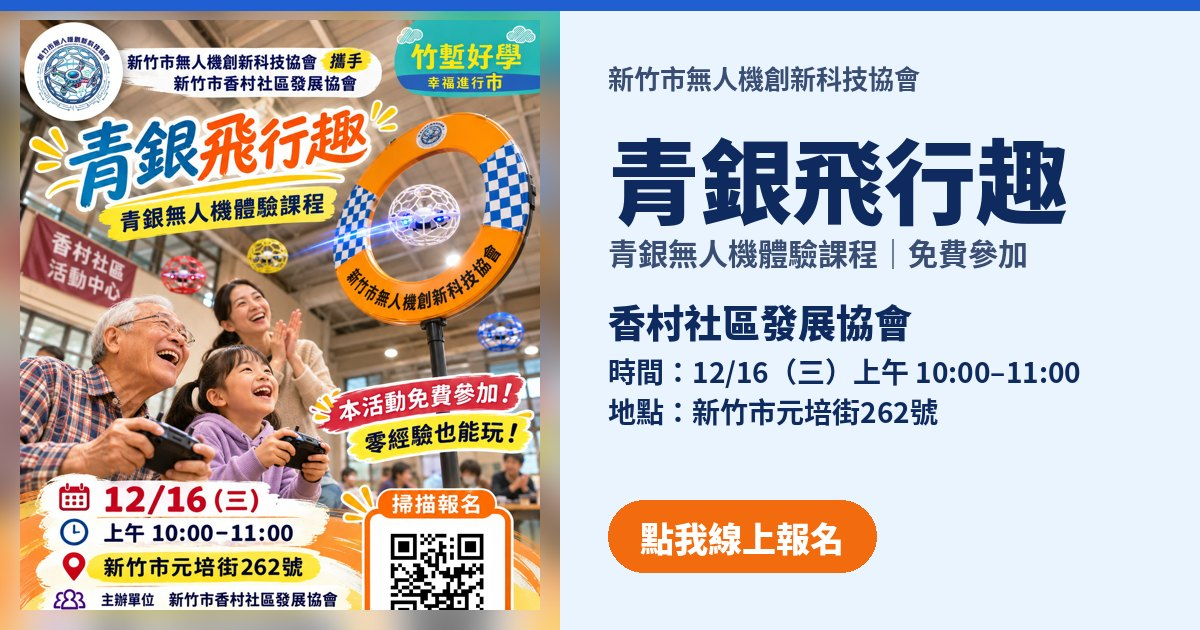
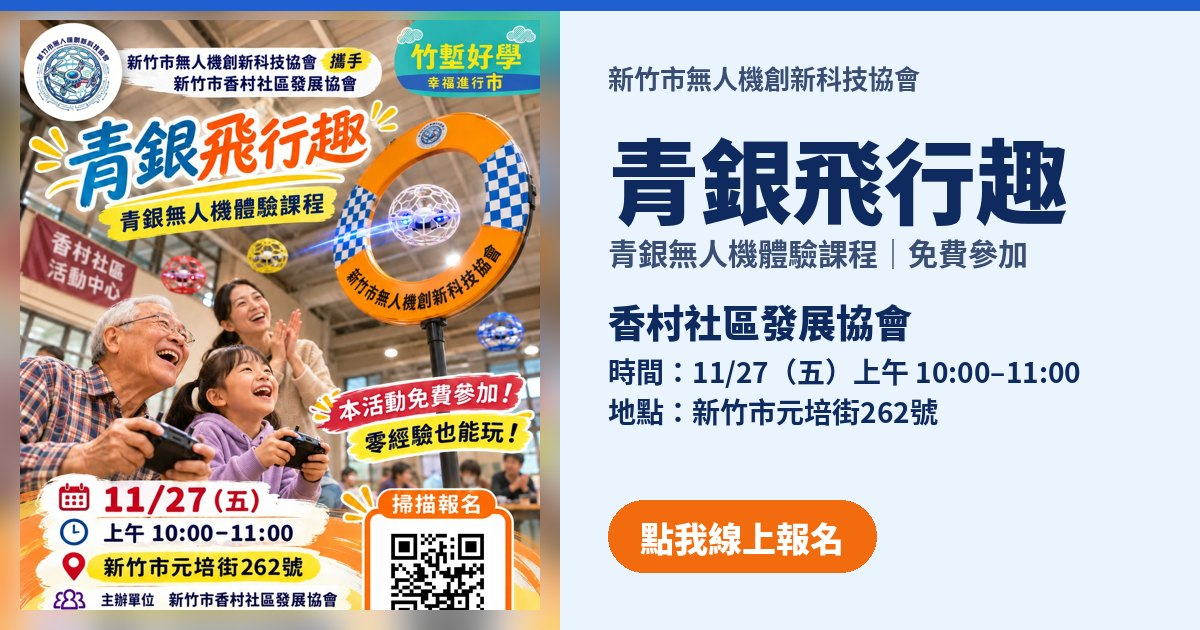
香村 DM 改 11/27（五）：海報、分享縮圖 poster jpg v12、config v35
Claude-Session: https://claude.ai/code/session_01Q3ebcVq132EhKXAYmsQC5S

diff --git a/xiangcun/index.html b/xiangcun/index.html
@@ -4,21 +4,21 @@
 <meta charset="utf-8">
 <meta name="viewport" content="width=device-width,initial-scale=1">
 <title>青銀飛行趣報名｜香村社區發展協會</title>
-<meta name="description" content="青銀無人機體驗課程｜免費參加。時間：12/16（三）上午 10:00–11:00；地點：新竹市元培街262號。線上填姓名、年齡、手機就完成報名。">
+<meta name="description" content="青銀無人機體驗課程｜免費參加。時間：11/27（五）上午 10:00–11:00；地點：新竹市元培街262號。線上填姓名、年齡、手機就完成報名。">
 <link rel="canonical" href="https://greenmail1011.github.io/community-signup/xiangcun/">
 <meta property="og:type" content="website">
 <meta property="og:site_name" content="新竹市無人機創新科技協會">
 <meta property="og:locale" content="zh_TW">
 <meta property="og:url" content="https://greenmail1011.github.io/community-signup/xiangcun/">
 <meta property="og:title" content="青銀飛行趣報名｜香村社區發展協會">
-<meta property="og:description" content="青銀無人機體驗課程｜免費參加。時間：12/16（三）上午 10:00–11:00；地點：新竹市元培街262號。線上填姓名、年齡、手機就完成報名。">
+<meta property="og:description" content="青銀無人機體驗課程｜免費參加。時間：11/27（五）上午 10:00–11:00；地點：新竹市元培街262號。線上填姓名、年齡、手機就完成報名。">
 <meta property="og:image" content="https://greenmail1011.github.io/community-signup/og-xiangcun.jpg">
 <meta property="og:image:width" content="1200">
 <meta property="og:image:height" content="630">
 <meta property="og:image:alt" content="青銀飛行趣報名｜香村社區發展協會">
 <meta name="twitter:card" content="summary_large_image">
 <meta name="twitter:title" content="青銀飛行趣報名｜香村社區發展協會">
-<meta name="twitter:description" content="青銀無人機體驗課程｜免費參加。時間：12/16（三）上午 10:00–11:00；地點：新竹市元培街262號。線上填姓名、年齡、手機就完成報名。">
+<meta name="twitter:description" content="青銀無人機體驗課程｜免費參加。時間：11/27（五）上午 10:00–11:00；地點：新竹市元培街262號。線上填姓名、年齡、手機就完成報名。">
 <meta name="twitter:image" content="https://greenmail1011.github.io/community-signup/og-xiangcun.jpg">
 <script>location.replace("../?c=xiangcun" + location.hash);</script>
 <style>body{margin:0;background:#EAF4FF;color:#0E2A5E;font:20px/1.6 system-ui,"PingFang TC","Microsoft JhengHei",sans-serif;display:grid;place-items:center;min-height:100vh;text-align:center}a{color:#C24F00;font-weight:700}</style>

diff --git a/index.html b/index.html
@@ -26,7 +26,7 @@
 // 有代碼 → 一打開就先下載海報，不等其他東西
 (function(){try{var c=(new URLSearchParams(location.search).get("c")||"").trim().toLowerCase();
 if(!c){location.replace("admin.html");return;}
-if(c){var l=document.createElement("link");l.rel="preload";l.as="image";l.href="poster-"+encodeURIComponent(c)+".jpg?v=11";document.head.appendChild(l);}}catch(e){}})();
+if(c){var l=document.createElement("link");l.rel="preload";l.as="image";l.href="poster-"+encodeURIComponent(c)+".jpg?v=12";document.head.appendChild(l);}}catch(e){}})();
 </script>
 <style>
 :root{
@@ -245,7 +245,7 @@ footer a{font-family:var(--f-round);font-weight:400;font-size:24px;color:var(--r
 </main>
 
 
-<script src="config.js?v=34"></script>
+<script src="config.js?v=35"></script>
 <script defer src="https://cdnjs.cloudflare.com/ajax/libs/qrcode-generator/1.4.4/qrcode.min.js"></script>
 <script>
 (function(){
@@ -307,7 +307,7 @@ footer a{font-family:var(--f-round);font-weight:400;font-size:24px;color:var(--r
     setTitle(c);
     document.title = (evTitle(c).replace("|", "") || "活動") + "報名｜" + c.name;
     // 海報：poster-社區代碼.jpg，有就整張顯示在最上面
-    const src = "poster-" + encodeURIComponent(c.code) + ".jpg?v=11"; // 換海報時把 v 加 1（跟上面 preload 一起改）
+    const src = "poster-" + encodeURIComponent(c.code) + ".jpg?v=12"; // 換海報時把 v 加 1（跟上面 preload 一起改）
     const img = $("#poster");
     if (img.dataset.src !== src) {
       img.dataset.src = src;

diff --git a/admin.html b/admin.html
@@ -287,7 +287,7 @@ dialog h3{font-size:20px;margin-bottom:4px}
   </div>
 </dialog>
 
-<script src="config.js?v=34"></script>
+<script src="config.js?v=35"></script>
 <script src="https://cdnjs.cloudflare.com/ajax/libs/qrcode-generator/1.4.4/qrcode.min.js"></script>
 <script>
 (function(){
